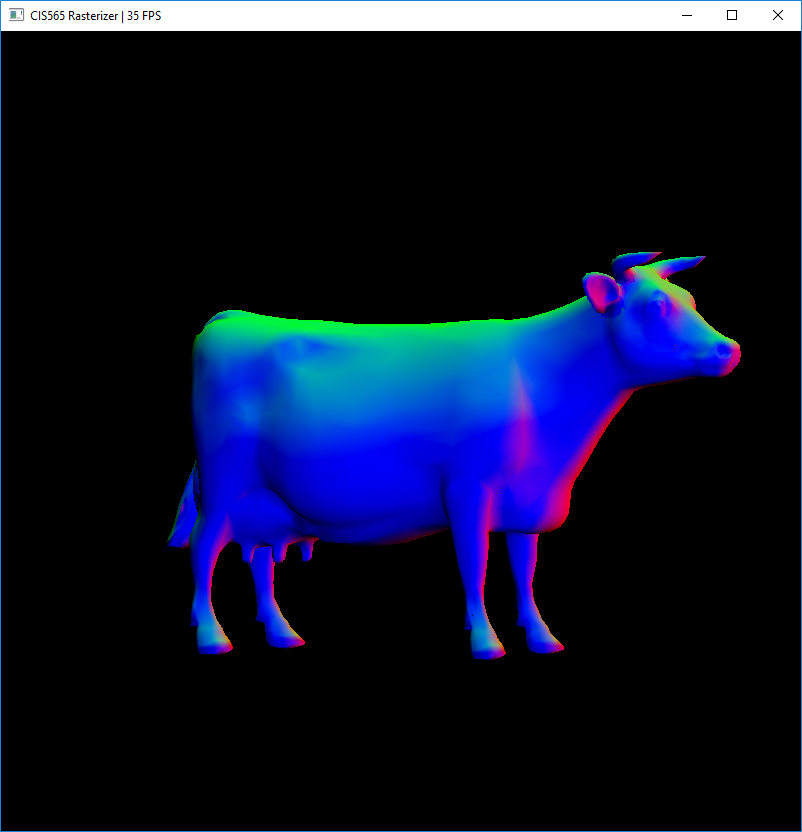
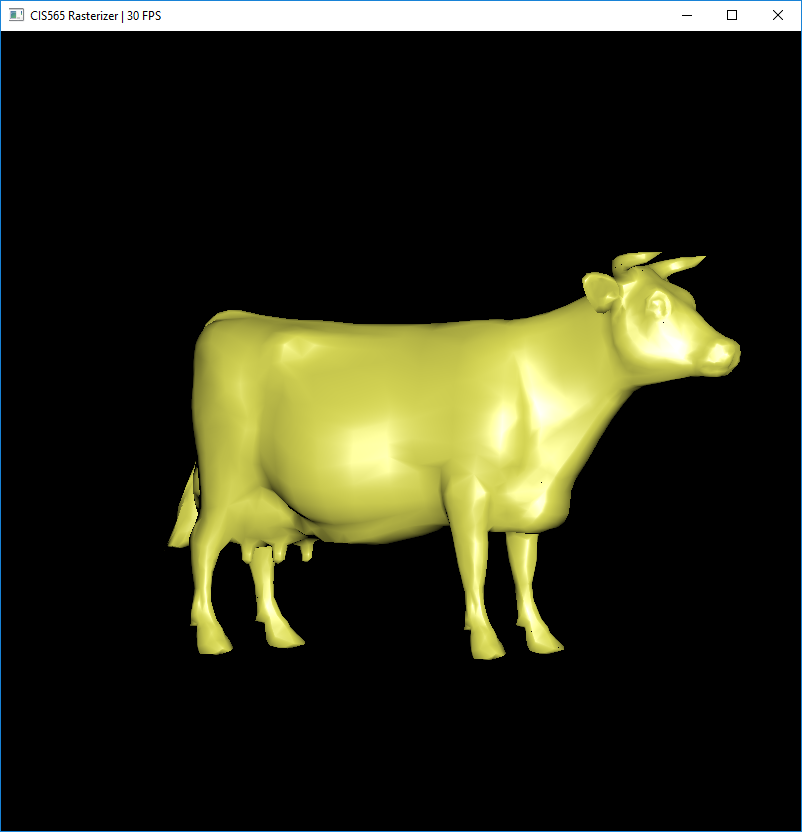
blinn-phong shading

Changed region(s): [[0.187, 0.2812, 0.9352, 0.8125]]

diff --git a/src/main.cpp b/src/main.cpp
@@ -99,15 +99,20 @@ void mainLoop() {
 /**
  * parameters for cow.gltf
  */
-//float scale = 0.1f;
-//float x_trans = 0.0f, y_trans = 0.0f, z_trans = -6.0f;
-//float x_angle = 0.0f, y_angle = - 30.0f / 180.0f * PI;
-//float fov = 65.0f;
-
+#if 0
+float scale = 0.1f;
+float x_trans = 0.0f, y_trans = 0.0f, z_trans = -6.0f;
+float x_angle = 0.0f, y_angle = -30.0f / 180.0f * PI;
+float fov = 65.0f;
+#else
 float scale = 1.0f;
 float x_trans = 0.0f, y_trans = 0.0f, z_trans = -6.0f;
 float x_angle = 0.0f, y_angle = -30.0f / 180.0f * PI;
 float fov = 65.0f;
+#endif
+
+
+
 
 void runCuda() {
     // Map OpenGL buffer object for writing from CUDA on a single GPU
